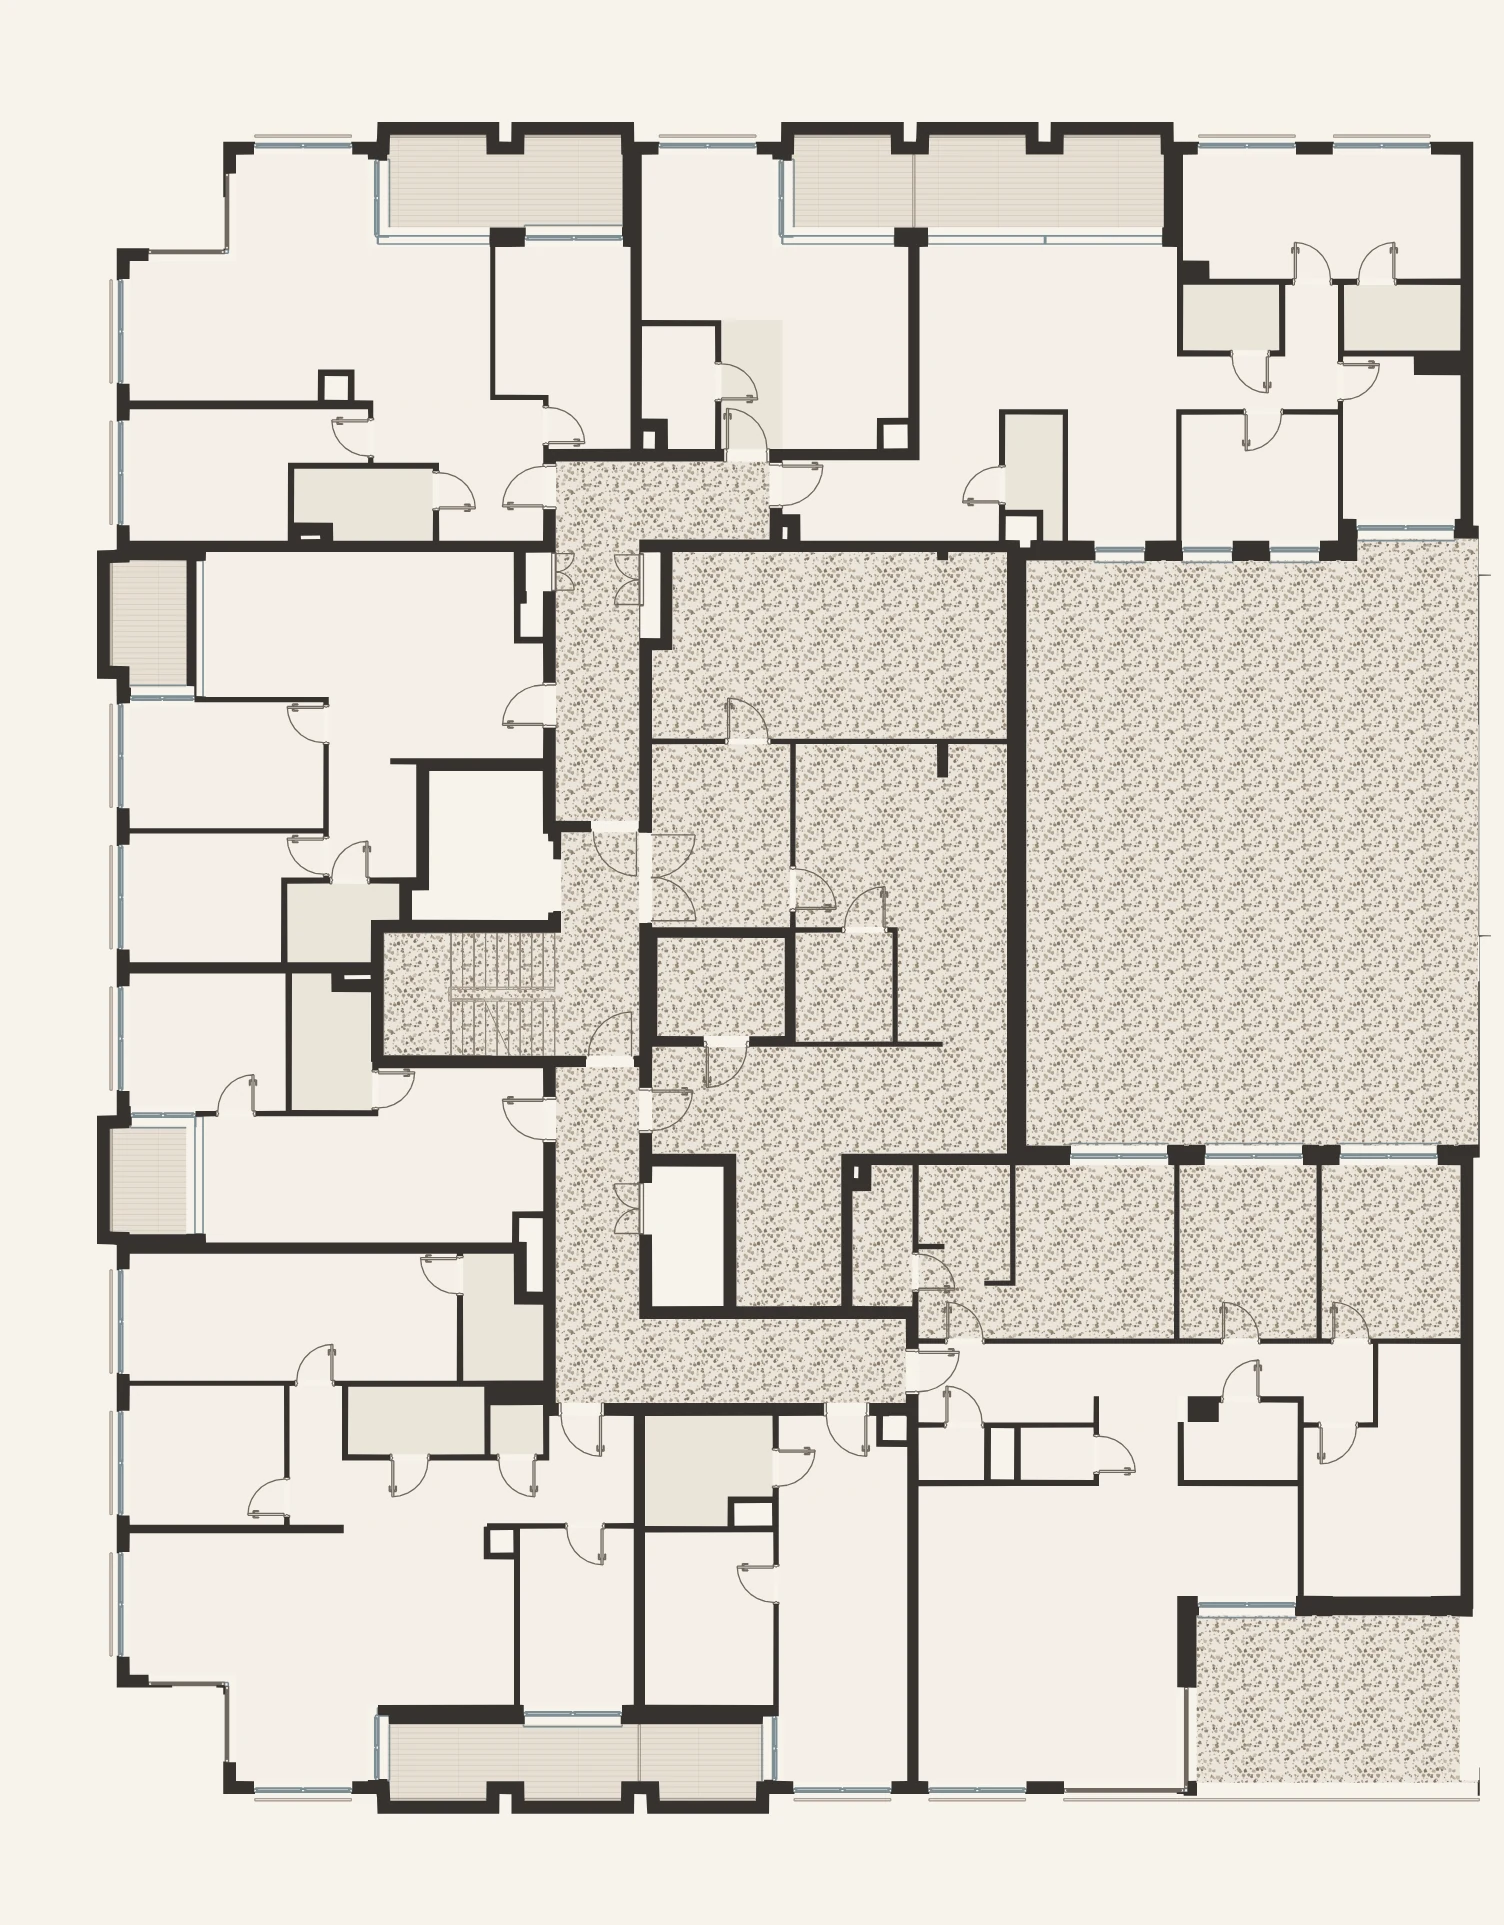
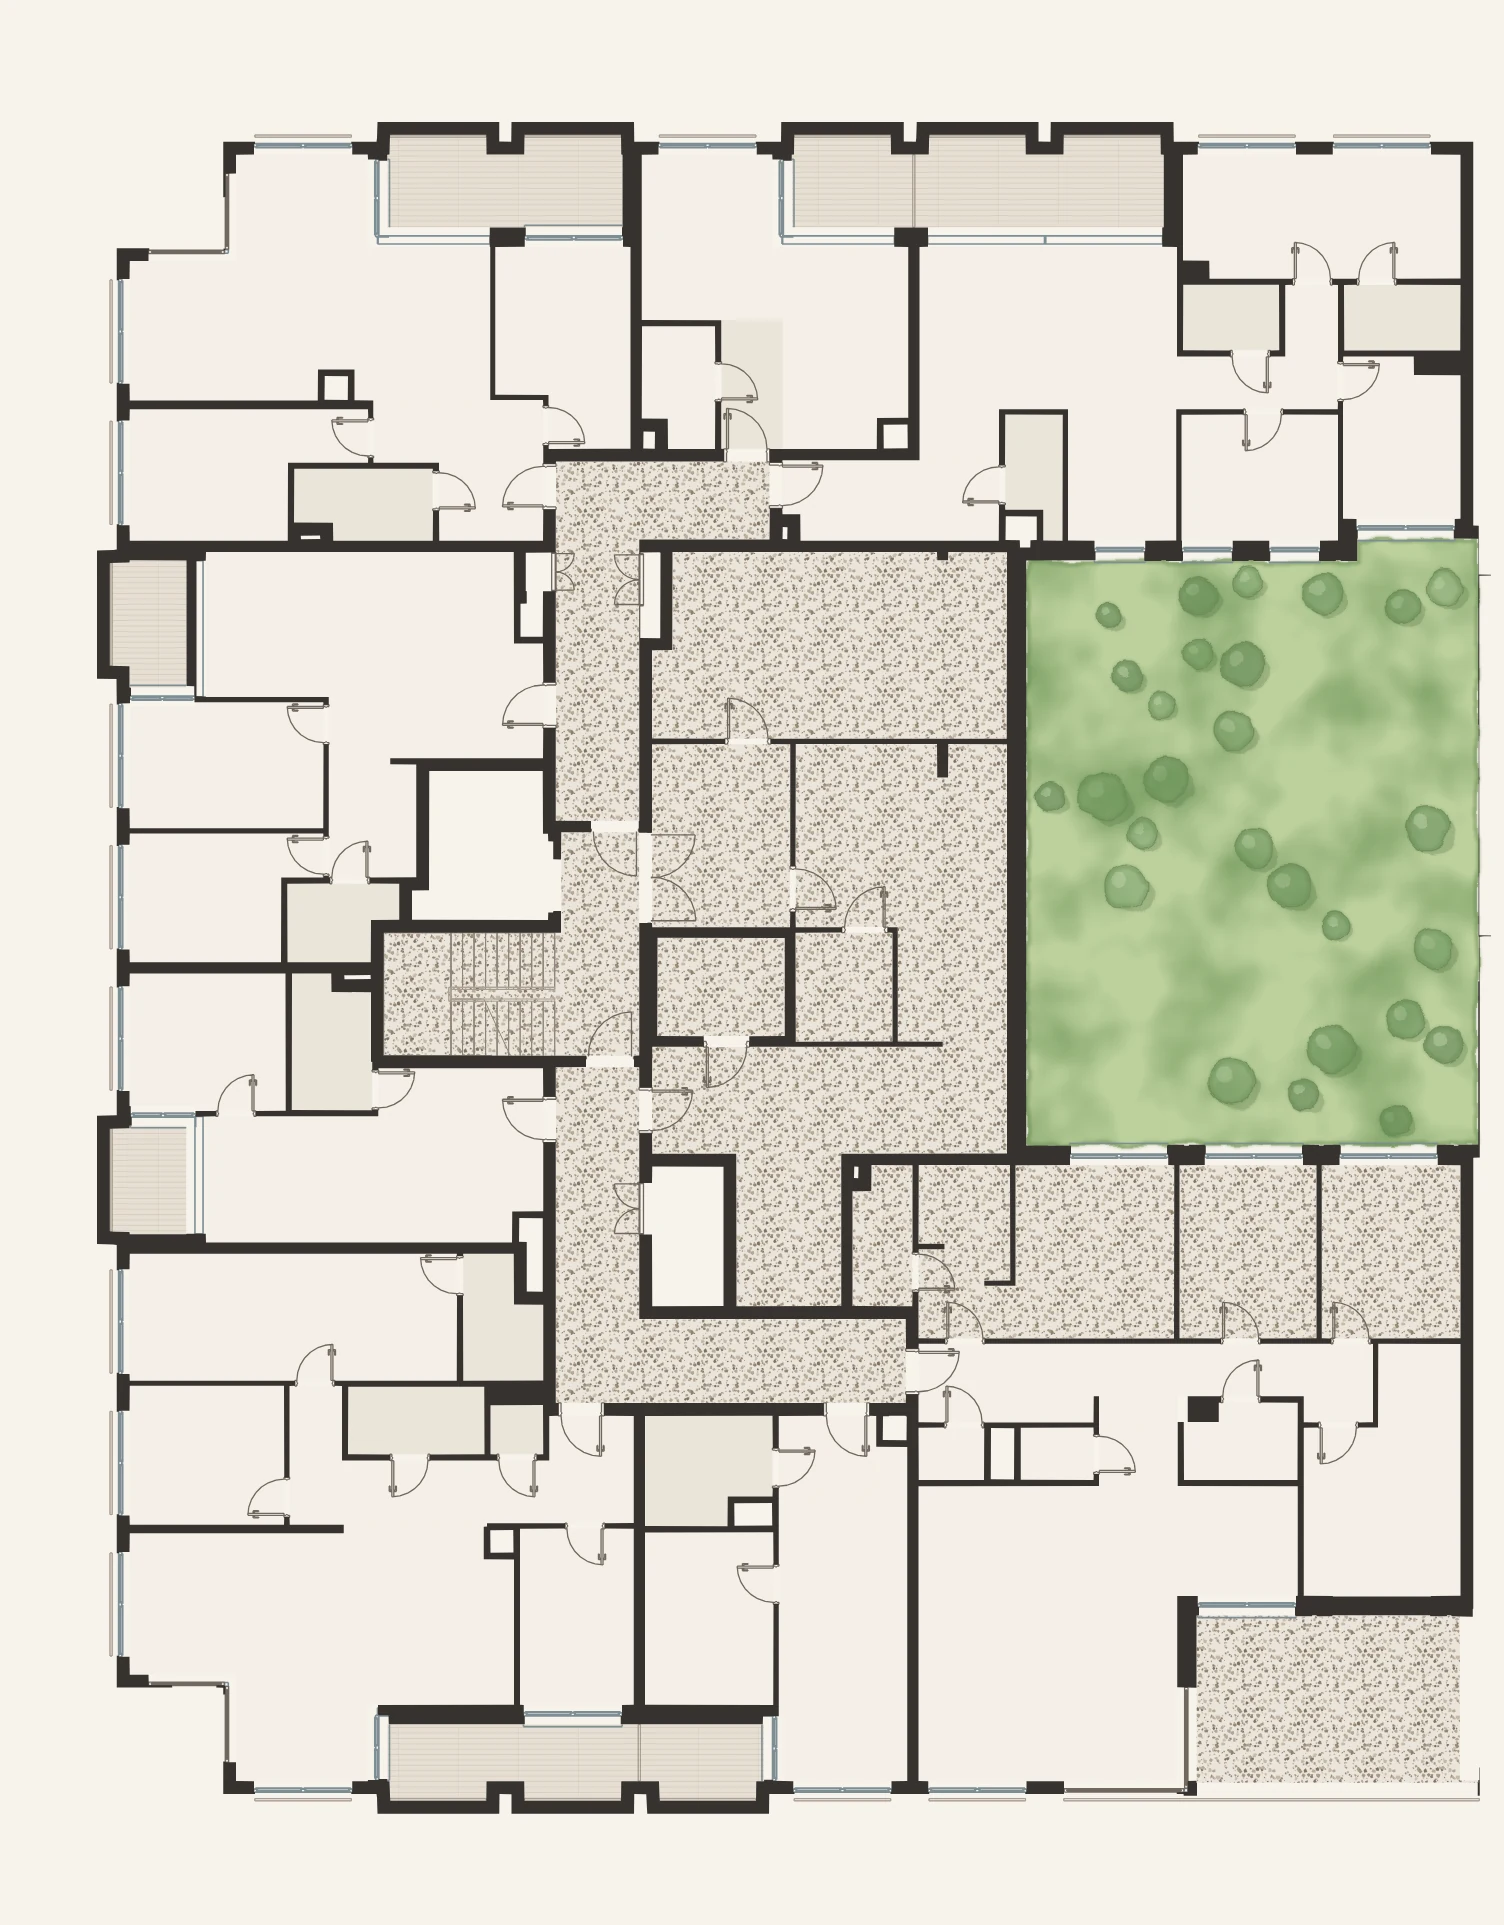
Rzut 1. piętra: zielone atrium malowane akwarelą (wyłączone ze strefy wellness); 3D: szyby naprawdę przezroczyste (poprawne mieszanie kanału alfa) (#125)
Claude-Session: https://claude.ai/code/session_01JqTzECbEDLjSdFDYMQNNHw

Changed region(s): [[0.6562, 0.2805, 1.0, 0.6234]]

diff --git a/index.html b/index.html
@@ -18,7 +18,7 @@
   <link href="https://fonts.googleapis.com/css2?family=Jost:ital,wght@0,300..600;1,300..500&family=Nunito+Sans:ital,opsz,wght@0,6..12,300..700;1,6..12,300..500&display=swap" rel="stylesheet">
   <link rel="preload" as="image" href="assets/img/okolica-lotnicze.webp" imagesrcset="assets/img/okolica-lotnicze-1600.webp 1600w, assets/img/okolica-lotnicze.webp 3200w" imagesizes="100vw">
   <link rel="stylesheet" href="https://unpkg.com/leaflet@1.9.4/dist/leaflet.css" crossorigin="">
-  <link rel="stylesheet" href="assets/css/style.css?v=1793991957">
+  <link rel="stylesheet" href="assets/css/style.css?v=1793992467">
   <script>document.documentElement.classList.add('js');
   // Futura / Avenir Next tylko na Apple: gdy ich brak, dostrajamy darmowe zamienniki (Jost, Nunito Sans)
   (function(){try{var c=document.createElement('canvas').getContext('2d'),t='MWNmwqr075 Łódź';function w(f){c.font='72px '+f;return c.measureText(t).width}
@@ -671,12 +671,12 @@
 </div>
 
 <script src="https://unpkg.com/leaflet@1.9.4/dist/leaflet.js" crossorigin=""></script>
-<script src="assets/js/intro.js?v=1793991957"></script>
-<script src="assets/js/extras.js?v=1793991957"></script>
-<script src="assets/js/units.js?v=1793991957"></script>
-<script src="assets/js/dziennik.js?v=1793991957"></script>
-<script src="assets/js/plan.js?v=1793991957"></script>
-<script src="assets/js/dollhouse.js?v=1793991957" defer></script>
-<script src="assets/js/main.js?v=1793991957"></script>
+<script src="assets/js/intro.js?v=1793992467"></script>
+<script src="assets/js/extras.js?v=1793992467"></script>
+<script src="assets/js/units.js?v=1793992467"></script>
+<script src="assets/js/dziennik.js?v=1793992467"></script>
+<script src="assets/js/plan.js?v=1793992467"></script>
+<script src="assets/js/dollhouse.js?v=1793992467" defer></script>
+<script src="assets/js/main.js?v=1793992467"></script>
 </body>
 </html>

diff --git a/mieszkanie.html b/mieszkanie.html
@@ -17,7 +17,7 @@
   <!-- Docelowo: Futura PT i Avenir Next z licencji (np. Adobe Fonts). Jost i Nunito Sans to darmowe zamienniki na urządzeniach bez tych krojów. -->
   <link href="https://fonts.googleapis.com/css2?family=Jost:ital,wght@0,300..600;1,300..500&family=Nunito+Sans:ital,opsz,wght@0,6..12,300..700;1,6..12,300..500&display=swap" rel="stylesheet">
   
-  <link rel="stylesheet" href="assets/css/style.css?v=1793991957">
+  <link rel="stylesheet" href="assets/css/style.css?v=1793992467">
   <script>document.documentElement.classList.add('js');
   // Futura / Avenir Next tylko na Apple: gdy ich brak, dostrajamy darmowe zamienniki (Jost, Nunito Sans)
   (function(){try{var c=document.createElement('canvas').getContext('2d'),t='MWNmwqr075 Łódź';function w(f){c.font='72px '+f;return c.measureText(t).width}
@@ -101,11 +101,11 @@
   <button class="lb-close" aria-label="Zamknij"><svg viewBox="0 0 24 24"><path d="M6 6l12 12M18 6L6 18"/></svg></button>
 </div>
 
-<script src="assets/js/extras.js?v=1793991957"></script>
-<script src="assets/js/units.js?v=1793991957"></script>
-<script src="assets/js/plan.js?v=1793991957"></script>
-<script src="assets/js/dollhouse.js?v=1793991957" defer></script>
-<script src="assets/js/unit.js?v=1793991957"></script>
-<script src="assets/js/page.js?v=1793991957"></script>
+<script src="assets/js/extras.js?v=1793992467"></script>
+<script src="assets/js/units.js?v=1793992467"></script>
+<script src="assets/js/plan.js?v=1793992467"></script>
+<script src="assets/js/dollhouse.js?v=1793992467" defer></script>
+<script src="assets/js/unit.js?v=1793992467"></script>
+<script src="assets/js/page.js?v=1793992467"></script>
 </body>
 </html>

diff --git a/assets/js/dollhouse.js b/assets/js/dollhouse.js
@@ -608,7 +608,7 @@
     gl.enable(gl.CULL_FACE); gl.cullFace(gl.BACK);
     gl.bindVertexArray(this.op.vao); gl.drawArrays(gl.TRIANGLES, 0, this.op.n);
     gl.disable(gl.CULL_FACE);
-    gl.enable(gl.BLEND); gl.blendFunc(gl.SRC_ALPHA, gl.ONE_MINUS_SRC_ALPHA); gl.depthMask(false); gl.uniform1f(u('uA'), 0.26);
+    gl.enable(gl.BLEND); gl.blendFuncSeparate(gl.SRC_ALPHA, gl.ONE_MINUS_SRC_ALPHA, gl.ONE, gl.ONE_MINUS_SRC_ALPHA); gl.depthMask(false); gl.uniform1f(u('uA'), 0.26);
     gl.bindVertexArray(this.gl_.vao); gl.drawArrays(gl.TRIANGLES, 0, this.gl_.n);
     gl.depthMask(true); gl.disable(gl.BLEND);
   };
@@ -705,7 +705,7 @@
     var load = dlg.querySelector('.dh__load'); load.hidden = false; load.textContent = 'Ładowanie modelu…';
     if (!viewer) { load.textContent = 'Ta przeglądarka nie obsługuje widoku 3D.'; return; }
     viewer.az = -0.62; viewer.el = 1.0; viewer.zoom = 1;
-    fetch(BASE + encodeURIComponent(id) + '.json?v=1793991957').then(function (r) { return r.ok ? r.json() : Promise.reject(); }).then(function (d) {
+    fetch(BASE + encodeURIComponent(id) + '.json?v=1793992467').then(function (r) { return r.ok ? r.json() : Promise.reject(); }).then(function (d) {
       data = d; setLevels(); show(0); load.hidden = true; intro();
     }).catch(function () { load.textContent = 'Model 3D tego lokalu jest w przygotowaniu.'; });
     setTimeout(function () { var x = dlg.querySelector('.dh__x'); if (x) x.focus({ preventScroll: true }); }, 50);

diff --git a/porownaj.html b/porownaj.html
@@ -18,7 +18,7 @@
   <!-- Docelowo: Futura PT i Avenir Next z licencji (np. Adobe Fonts). Jost i Nunito Sans to darmowe zamienniki na urządzeniach bez tych krojów. -->
   <link href="https://fonts.googleapis.com/css2?family=Jost:ital,wght@0,300..600;1,300..500&family=Nunito+Sans:ital,opsz,wght@0,6..12,300..700;1,6..12,300..500&display=swap" rel="stylesheet">
   
-  <link rel="stylesheet" href="assets/css/style.css?v=1793991957">
+  <link rel="stylesheet" href="assets/css/style.css?v=1793992467">
   <script>document.documentElement.classList.add('js');
   // Futura / Avenir Next tylko na Apple: gdy ich brak, dostrajamy darmowe zamienniki (Jost, Nunito Sans)
   (function(){try{var c=document.createElement('canvas').getContext('2d'),t='MWNmwqr075 Łódź';function w(f){c.font='72px '+f;return c.measureText(t).width}
@@ -109,9 +109,9 @@
   <button class="lb-close" aria-label="Zamknij"><svg viewBox="0 0 24 24"><path d="M6 6l12 12M18 6L6 18"/></svg></button>
 </div>
 
-<script src="assets/js/extras.js?v=1793991957"></script>
-<script src="assets/js/units.js?v=1793991957"></script>
-<script src="assets/js/page.js?v=1793991957"></script>
-<script src="assets/js/porownaj.js?v=1793991957"></script>
+<script src="assets/js/extras.js?v=1793992467"></script>
+<script src="assets/js/units.js?v=1793992467"></script>
+<script src="assets/js/page.js?v=1793992467"></script>
+<script src="assets/js/porownaj.js?v=1793992467"></script>
 </body>
 </html>

diff --git a/assets/js/units.js b/assets/js/units.js
@@ -71,7 +71,7 @@ window.N75_STREFY = [
    "title":"Foyer","text":"Wejście do budynku z&nbsp;recepcją i&nbsp;concierge, strefą wypoczynkową i&nbsp;biblioteką – wizytówka N75.","link":["#wnetrza","Zobacz wnętrza"],
    "gallery":[["foyer-wejscie","Wejście do foyer"],["foyer-1","Foyer z recepcją i biblioteką"],["foyer-2","Strefa wypoczynkowa w foyer"]]},
   {"id":"WELLNESS","kind":"wellness","floor":1,"levels":[1],"name":"Strefa wellness z basenem","area":0,"status":"strefa",
-   "shape":{"1":[[672,552],[672,649],[652,650],[652,927],[657,928],[652,1153],[736,1154],[736,1306],[917,1306],[918,1338],[1477,1338],[1477,724],[1007,724],[1006,552]]},"label":{"1":[1000,1000]},
+   "shape":{"1":[[672,552],[672,649],[652,650],[652,927],[657,928],[652,1153],[736,1154],[736,1306],[917,1306],[918,1338],[1477,1338],[1477,1152],[1007,1152],[1006,552]]},"label":{"1":[830,1000]},
    "title":"Wellness","text":"Na 1. piętrze, w&nbsp;sercu budynku: basen, jacuzzi i&nbsp;strefa wellness z&nbsp;sauną oraz siłownia – wspólne dla mieszkańców.","link":["#udogodnienia","Zobacz udogodnienia"],
    "gallery":[["basen-1","Basen wyłożony trawertynem"],["basen-2","Basen"],["basen-3","Jacuzzi"],["sauna","Sauna"],["silownia-1","Siłownia"]]}
 ];

diff --git a/budynek.html b/budynek.html
@@ -17,7 +17,7 @@
   <!-- Docelowo: Futura PT i Avenir Next z licencji (np. Adobe Fonts). Jost i Nunito Sans to darmowe zamienniki na urządzeniach bez tych krojów. -->
   <link href="https://fonts.googleapis.com/css2?family=Jost:ital,wght@0,300..600;1,300..500&family=Nunito+Sans:ital,opsz,wght@0,6..12,300..700;1,6..12,300..500&display=swap" rel="stylesheet">
   
-  <link rel="stylesheet" href="assets/css/style.css?v=1793991957">
+  <link rel="stylesheet" href="assets/css/style.css?v=1793992467">
   <script>document.documentElement.classList.add('js');
   // Futura / Avenir Next tylko na Apple: gdy ich brak, dostrajamy darmowe zamienniki (Jost, Nunito Sans)
   (function(){try{var c=document.createElement('canvas').getContext('2d'),t='MWNmwqr075 Łódź';function w(f){c.font='72px '+f;return c.measureText(t).width}
@@ -164,7 +164,7 @@
   <button class="lb-close" aria-label="Zamknij"><svg viewBox="0 0 24 24"><path d="M6 6l12 12M18 6L6 18"/></svg></button>
 </div>
 
-<script src="assets/js/extras.js?v=1793991957"></script>
-<script src="assets/js/page.js?v=1793991957"></script>
+<script src="assets/js/extras.js?v=1793992467"></script>
+<script src="assets/js/page.js?v=1793992467"></script>
 </body>
 </html>

diff --git a/manifest.html b/manifest.html
@@ -17,7 +17,7 @@
   <!-- Docelowo: Futura PT i Avenir Next z licencji (np. Adobe Fonts). Jost i Nunito Sans to darmowe zamienniki na urządzeniach bez tych krojów. -->
   <link href="https://fonts.googleapis.com/css2?family=Jost:ital,wght@0,300..600;1,300..500&family=Nunito+Sans:ital,opsz,wght@0,6..12,300..700;1,6..12,300..500&display=swap" rel="stylesheet">
   
-  <link rel="stylesheet" href="assets/css/style.css?v=1793991957">
+  <link rel="stylesheet" href="assets/css/style.css?v=1793992467">
   <script>document.documentElement.classList.add('js');
   // Futura / Avenir Next tylko na Apple: gdy ich brak, dostrajamy darmowe zamienniki (Jost, Nunito Sans)
   (function(){try{var c=document.createElement('canvas').getContext('2d'),t='MWNmwqr075 Łódź';function w(f){c.font='72px '+f;return c.measureText(t).width}
@@ -164,7 +164,7 @@
   <button class="lb-close" aria-label="Zamknij"><svg viewBox="0 0 24 24"><path d="M6 6l12 12M18 6L6 18"/></svg></button>
 </div>
 
-<script src="assets/js/extras.js?v=1793991957"></script>
-<script src="assets/js/page.js?v=1793991957"></script>
+<script src="assets/js/extras.js?v=1793992467"></script>
+<script src="assets/js/page.js?v=1793992467"></script>
 </body>
 </html>

diff --git a/polityka-prywatnosci.html b/polityka-prywatnosci.html
@@ -17,7 +17,7 @@
   <!-- Docelowo: Futura PT i Avenir Next z licencji (np. Adobe Fonts). Jost i Nunito Sans to darmowe zamienniki na urządzeniach bez tych krojów. -->
   <link href="https://fonts.googleapis.com/css2?family=Jost:ital,wght@0,300..600;1,300..500&family=Nunito+Sans:ital,opsz,wght@0,6..12,300..700;1,6..12,300..500&display=swap" rel="stylesheet">
   
-  <link rel="stylesheet" href="assets/css/style.css?v=1793991957">
+  <link rel="stylesheet" href="assets/css/style.css?v=1793992467">
   <script>document.documentElement.classList.add('js');
   // Futura / Avenir Next tylko na Apple: gdy ich brak, dostrajamy darmowe zamienniki (Jost, Nunito Sans)
   (function(){try{var c=document.createElement('canvas').getContext('2d'),t='MWNmwqr075 Łódź';function w(f){c.font='72px '+f;return c.measureText(t).width}
@@ -294,7 +294,7 @@
   <button class="lb-close" aria-label="Zamknij"><svg viewBox="0 0 24 24"><path d="M6 6l12 12M18 6L6 18"/></svg></button>
 </div>
 
-<script src="assets/js/extras.js?v=1793991957"></script>
-<script src="assets/js/page.js?v=1793991957"></script>
+<script src="assets/js/extras.js?v=1793992467"></script>
+<script src="assets/js/page.js?v=1793992467"></script>
 </body>
 </html>

diff --git a/assets/js/porownaj.js b/assets/js/porownaj.js
@@ -20,7 +20,7 @@
   var dimH = function (u) { return Math.max.apply(null, u.levels.map(function (l) { return cropH(u, l); })); };
   var K = 1;
   function thumb(u) {
-    return u.levels.map(function (l) { return '<img style="width:' + (cropW(u, l) * K).toFixed(2) + '%" src="assets/img/plany/lokale/' + u.id + '-' + l + '-sm.webp?v=1793991957" alt="Rzut lokalu ' + u.id + (u.levels.length > 1 ? ', piętro ' + l : '') + '" loading="lazy">'; }).join('');
+    return u.levels.map(function (l) { return '<img style="width:' + (cropW(u, l) * K).toFixed(2) + '%" src="assets/img/plany/lokale/' + u.id + '-' + l + '-sm.webp?v=1793992467" alt="Rzut lokalu ' + u.id + (u.levels.length > 1 ? ', piętro ' + l : '') + '" loading="lazy">'; }).join('');
   }
   function roomArea(u, re) { return u.roomsList.filter(function (r) { return re.test(r[1]); }).reduce(function (s, r) { return s + r[2]; }, 0); }
 

diff --git a/assets/js/main.js b/assets/js/main.js
@@ -502,7 +502,7 @@
   // miniatura prawdziwego rzutu lokalu (z meblami); dwupoziomowe: obie kondygnacje obok siebie
   function planThumb(u) {
     return u.levels.map(function (l) {
-      return '<img src="assets/img/plany/lokale/' + u.id + '-' + l + '-sm.webp?v=1793991957" alt="Rzut lokalu ' + u.id + (u.levels.length > 1 ? ', piętro ' + l : '') + '" loading="lazy">';
+      return '<img src="assets/img/plany/lokale/' + u.id + '-' + l + '-sm.webp?v=1793992467" alt="Rzut lokalu ' + u.id + (u.levels.length > 1 ? ', piętro ' + l : '') + '" loading="lazy">';
     }).join('');
   }
 

diff --git a/assets/js/plan.js b/assets/js/plan.js
@@ -3,7 +3,7 @@
 (function () {
   'use strict';
   var NS = 'http://www.w3.org/2000/svg';
-  var W = 1504, H = 1925, V = '?v=1793991957';
+  var W = 1504, H = 1925, V = '?v=1793992467';
 
   function el(tag, attrs, parent) {
     var n = document.createElementNS(NS, tag);
